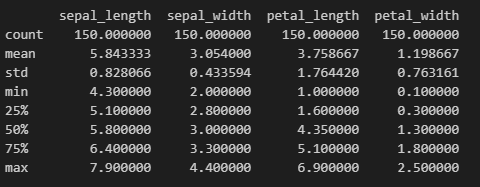
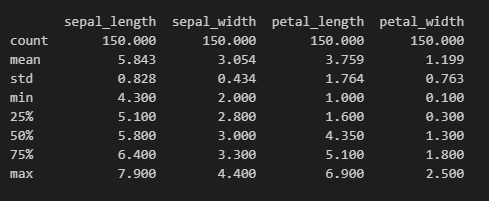
update

diff --git a/project2019.py b/project2019.py
@@ -1,50 +1,59 @@
-#This program part of Programming and Scripting is to analyse the Iris Data Set
+#This program part of Programming and Scripting module and its objective is to analyse the Iris Data Set
+
 import pandas as pd #import the pandas
-import matplotlib.pyplot as plt
-import numpy as np
-import seaborn as sns
-#SciKit-Learn
+import matplotlib.pyplot as plt #import matplotlib.pyplot
+import numpy as np #import numpy
+import seaborn as sns # import seaborn
 
 # reading file(load file in pandas dataframe)
 dataset = pd.read_csv("iris.csv")
+#print the heading
 print("The Analysis of Iris Dataset")
 print("-----------------------------")
 
- # number of data points and features (150,5)
-print( "The number of data points and number of columns/features", dataset.shape)
+#print the shape of dataset
+#that is the number of data points and features 
+print( "The number of data points and number of columns/features", dataset.shape)# outputt (150,5)
 print("-----------------------------")
-# complete information of a data set data types etc
-print("Iris Data Set Info ")
-print(dataset.info()) 
 
 print("Name of the columns of dataset")
 print(dataset.columns)# column names in dataset
 
+# complete information of a data set data types etc
+print("Iris Data Set Info ")
+print(dataset.info()) 
+
+# Print first 10 rows of data set to get the idea about data in dataset
 print("Iris Data Set first 10 rows ")
 print(dataset.head(10)) 
 
-print("Number of data rows of each species")
+print("Number of data rows of each species in Iris data set")
 print(dataset["species"].value_counts())#how many flowers are of each species
+#balanced data set as all 3 species has equal numbers of data points 50 each
+
+print("Is there any null (Empty) value in dataset")
 print(dataset.isnull().any())
 
 #statistics of data set
-print(dataset.describe())
+print("Descriptive statistics of Iris dataset")
+print(dataset.describe().round(3)) # round is optional i used it to maked output look tidy
 
 
 #Create 3 DataFrame for each Species
-setosa=dataset[dataset['species']=='setosa']
-versicolor =dataset[dataset['species']=='versicolor']
-virginica =dataset[dataset['species']=='virginica']
+setosa=dataset[dataset['species']=='setosa'] # setosa
+versicolor =dataset[dataset['species']=='versicolor'] #versicolor
+virginica =dataset[dataset['species']=='virginica'] #virginica
 print("information of 3 species data sets")
-print("Setosa")
-print(setosa.describe())
-print("versicolor")
-print(versicolor.describe())
-print("virginica")
-print(virginica.describe())
-#balanced data set as all 3 species has equal numbers of data points 50 each
-# histograms
+print("Descriptive statistics of Setosa")
+print(setosa.describe().round(3))
+print("Descriptive statistics of versicolor")
+print(versicolor.describe().round(3))
+print("Descriptive statistics of virginica")
+print(virginica.describe().round (3))
 
+# Visualization
+# histograms
+# histograms are used to plot a univariate distribution of observation
 # sepal length histogram for the dataset
 plt.figure() 
 x = dataset["sepal_length"]
@@ -80,34 +89,95 @@ plt.show()
 
 # histogram for all 4 variables of data set
 dataset.hist()
-
 plt.show()
 
-# build the box plot
+# Boxplot
+# A box plot shows the distribution of quantitative data across a categorical variable.
 
 dataset.boxplot(by="species", figsize=(7,7))
 plt.show()
 
-#sns.boxplot(by="speciecs", data=dataset)
-#plt.show()
-
-ax = sns.boxplot(data=dataset, orient="h", palette="Set2")
-
-#sns.boxplot(x="species", y="petal_length", data=dataset)
+# petal length boxplot group by species
+plt.figure()
+sns.boxplot(x="species", y="petal_length", data=dataset)
 plt.show()
+# petal width boxplot graph group by species
+plt.figure()
+sns.boxplot(x="species", y="petal_width", data=dataset)
+plt.show()
+
+# sepal length boxplot group by species
+plt.figure()
+sns.boxplot(x="species", y="sepal_length", data=dataset)
+plt.show()
+# sepal width boxplot graph group by species
+plt.figure()
+sns.boxplot(x="species", y="sepal_width", data=dataset)
+plt.show()
+
+#Boxplot with datapoint 
+plt.figure(figsize = (10, 7)) 
+ax= sns.boxplot(x="species", y="petal_length", data=dataset)
+ax= sns.stripplot(x="species", y="petal_length", data=dataset, jitter=True, edgecolor="gray")
+
+boxtwo = ax.artists[2]
+boxtwo.set_facecolor('red')
+boxtwo.set_edgecolor('black')
+boxthree=ax.artists[1]
+boxthree.set_facecolor('yellow')
+boxthree.set_edgecolor('black')
+
+plt.show()
+
+#Violin plot 
+# plays a similar role as a box and whisker plot.
+# It shows the distribution of quantitative data across several levels of one (or more) 
+# categorical variables such that those distributions can be compared.
+
+#sepal width violin plot
+fig, ax = plt.subplots(figsize =(9, 7)) 
+sns.violinplot(ax = ax, x = dataset["species"],y = dataset["sepal_width"] ) 
+plt.show()
+#sepal length violin plot
+fig, ax = plt.subplots(figsize =(9, 7)) 
+sns.violinplot(ax = ax, x = dataset["species"],y = dataset["sepal_length"] ) 
+plt.show()
+#petal width violin plot
+fig, ax = plt.subplots(figsize =(9, 7)) 
+sns.violinplot(ax = ax, x = dataset["species"],y = dataset["petal_width"] ) 
+plt.show()
+#petal length violin plot
+fig, ax = plt.subplots(figsize =(9, 7)) 
+sns.violinplot(ax = ax, x = dataset["species"],y = dataset["petal_length"] ) 
+plt.show()
+
+#pairplot
+# Pair Plot is used to view the pairwise relationship between all the variables in a dataset
+# and the diagonal axes show the univariate distribution of the variable. 
+# It takes the entire dataset as input and distinguishes data on species with varying colors.
+
+sns.pairplot(dataset, hue="species", height=3)
+plt.show()
+
+# Scatter plot is a two-dimensional data visualization that uses dots to represent the values
+# obtained for two different variables - one plotted along the x-axis and the other plotted along the y-axis.
+# scatter graphs are powerful data visualization tools. 
+# these are also used to show if there is any connection between groups of data. 
+# If there is a strong connection or correlation, a ‘line of best fit’ can be drawn.
 
 #2-D scatter plot of the data set
 dataset.plot(kind="scatter",x="sepal_length", y="sepal_width")
 plt.show()
+
 #2-D scatter with colour-coding for each species
 sns.set_style("whitegrid")
-sns.FacetGrid(dataset,hue="species", size = 4).map(plt.scatter,"sepal_length","sepal_width").add_legend()
+sns.FacetGrid(dataset,hue="species", height = 4).map(plt.scatter,"sepal_length","sepal_width").add_legend()
 plt.show()
 # the graph shows that setosa species data can be easily seprated
 #it means by using sepal_length and sepal_width, setosa flowers can distinguish from other
 sns.set_style("whitegrid")
-sns.FacetGrid(dataset,hue="species", size = 4).map(plt.scatter,"petal_length","petal_width").add_legend()
+sns.FacetGrid(dataset,hue="species", height = 4).map(plt.scatter,"petal_length","petal_width").add_legend()
 plt.show()
 # the graph shows that setosa species data can be easily seprated
 #it means by using petal_length and petal_width, setosa flowers can be identified from others
-# in this grap even virginica and versicolor are mostly seprable
+# in this graph even virginica and versicolor are mostly seprable

diff --git a/README.md b/README.md
@@ -140,35 +140,49 @@ Print the name of columns (headings)
      versicolor =dataset[dataset['species']=='versicolor']
      virginica =dataset[dataset['species']=='virginica']
      print("information of 3 species data sets")
-     print("Setosa")
-     print(setosa.describe())
-     print("versicolor")
-     print(versicolor.describe())
-     print("virginica")
-     print(virginica.describe()) 
+     print("Descriptive statistics of Setosa")
+     print(setosa.describe().round(3))
+     print("Descriptive statistics of versicolor")
+     print(versicolor.describe().round(3))
+     print("Descriptive statistics of virginica")
+     print(virginica.describe().round (3))
    ```
     ![](images/sdescribe.PNG)
+
+    ![](images/verdescribe.PNG)
+    
+    ![](images/virdescribe.PNG)
     
 
 # Visualisation of Dataset
 ## Histogram
 
     A histogram is a great tool for quickly assessing a probability distribution that is  understood by almost any audience. Python offers a handful of different options for building and plotting histograms. Most people know a histogram by its graphical representation, which is similar to a bar graph.
-     ![](graphs/Capture.PNG)
+![](graphs/Capture.PNG)
 
 ## BoxPlot
    
     Boxplot (box and wisker graph) is probably one of the most common type of graphic. A boxplot is a standardized way of displaying the distribution of data based on a five number summary (“minimum”, first quartile (Q1), median, third quartile (Q3), and “maximum”).
     It can tell you about your outliers and what their values are. It can also tell you if your data is symmetrical, how tightly your data is grouped, and if and how your data is skewed.
-    The line that divides the box into 2 parts represents the **median** of the data. The end of the box shows **the upper and lower quartiles**. The extreme lines shows **the highest and lowest value excluding outliers**. Note that boxplot hide the number of values existing behind the variable.
+    The line that divides the box into 2 parts represents the **median** of the data. The end of the box shows **the upper and lower quartiles**. The extreme lines shows **the highest and lowest value excluding outliers**. Note that boxplot hide the number of values existing behind the variable. 
     
-  ![](images/boxplotexplained.png)
+![](images/boxplotexplained.png)
 
     Source:https://flowingdata.com/2008/02/15/how-to-read-and-use-a-box-and-whisker-plot/
 
-**Box plot of all varients grouped by species
+### Box plot of all varients grouped by species
 ![](graphs/boxplot.PNG)
+## Seaborn boxplots
+   ![](graphs/Capture1.PNG)
 
+## Seaborn boxplot with data points
+   ![](graphs/Capture2.PNG)
+## Violin plots:
+      plays a similar role as a box and whisker plot. It shows the distribution of quantitative data across several levels of one (or more) categorical variables such that those distributions can be compared. Unlike a box plot, in which all of the plot components correspond to actual datapoints, the violin plot features a kernel density estimation of the underlying distribution. source:https://seaborn.pydata.org/generated/seaborn.violinplot.html
+   ![](graphs/Capture3.PNG)
+## Pairplot:
+      Pair Plot is used to view the pairwise relationship between all the variables in a dataset and the diagonal axes show the univariate distribution of the variable. It takes the entire dataset as input and distinguishes data on species with varying colors.
+   ![](graphs/Figure_4.png)
 ## Scatter Graph
     
     A scatter plot/ scatter graph is a two-dimensional data visualization that uses dots to represent the values obtained for two different variables - one plotted along the x-axis and the other plotted along the y-axis.
